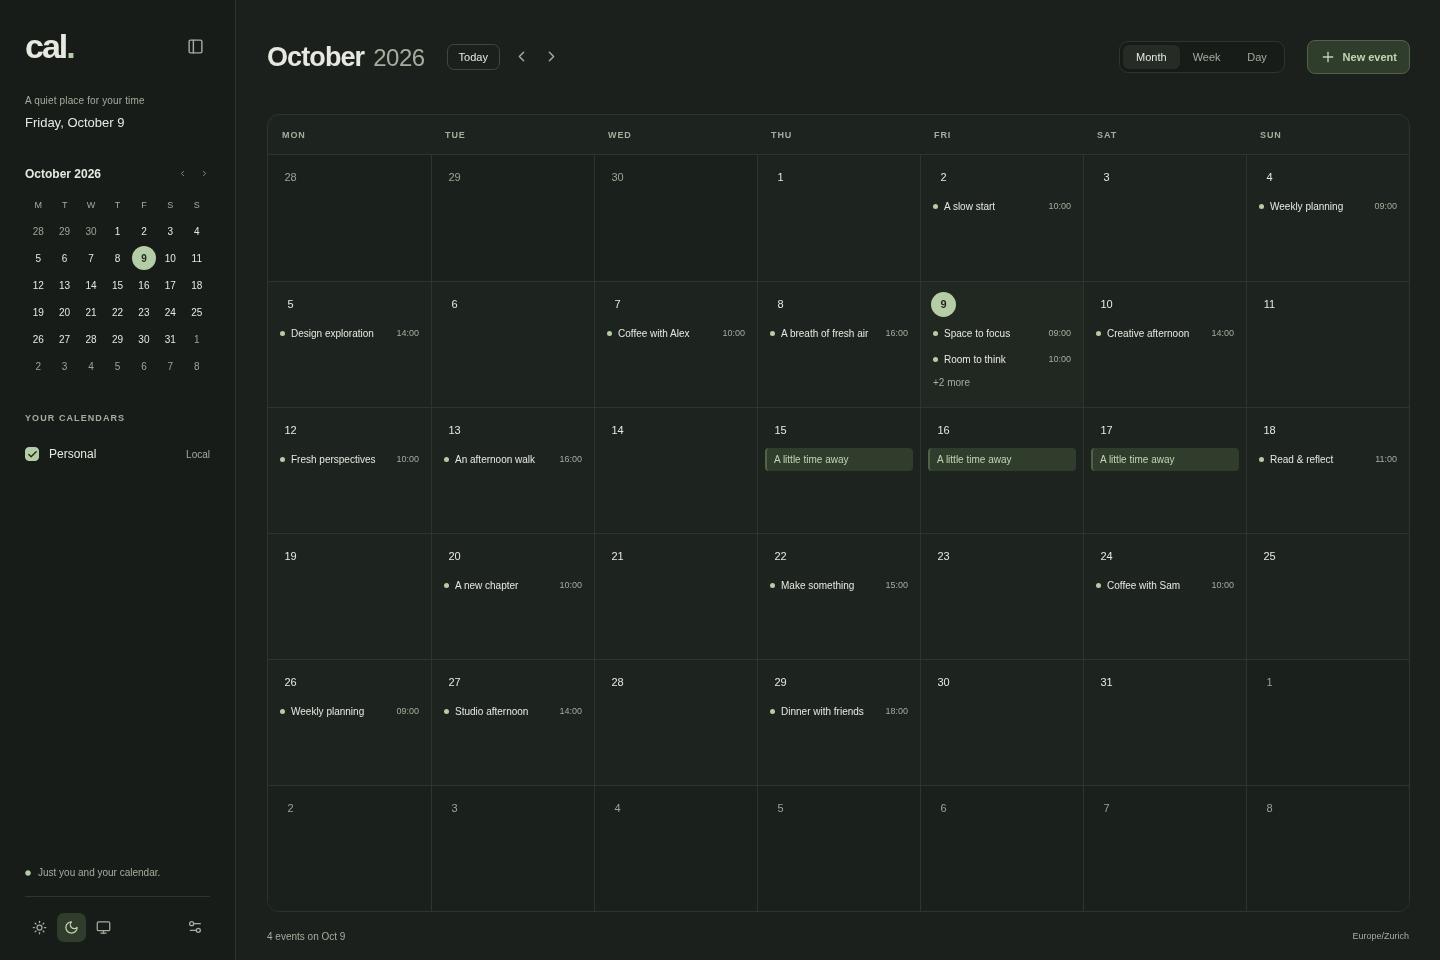
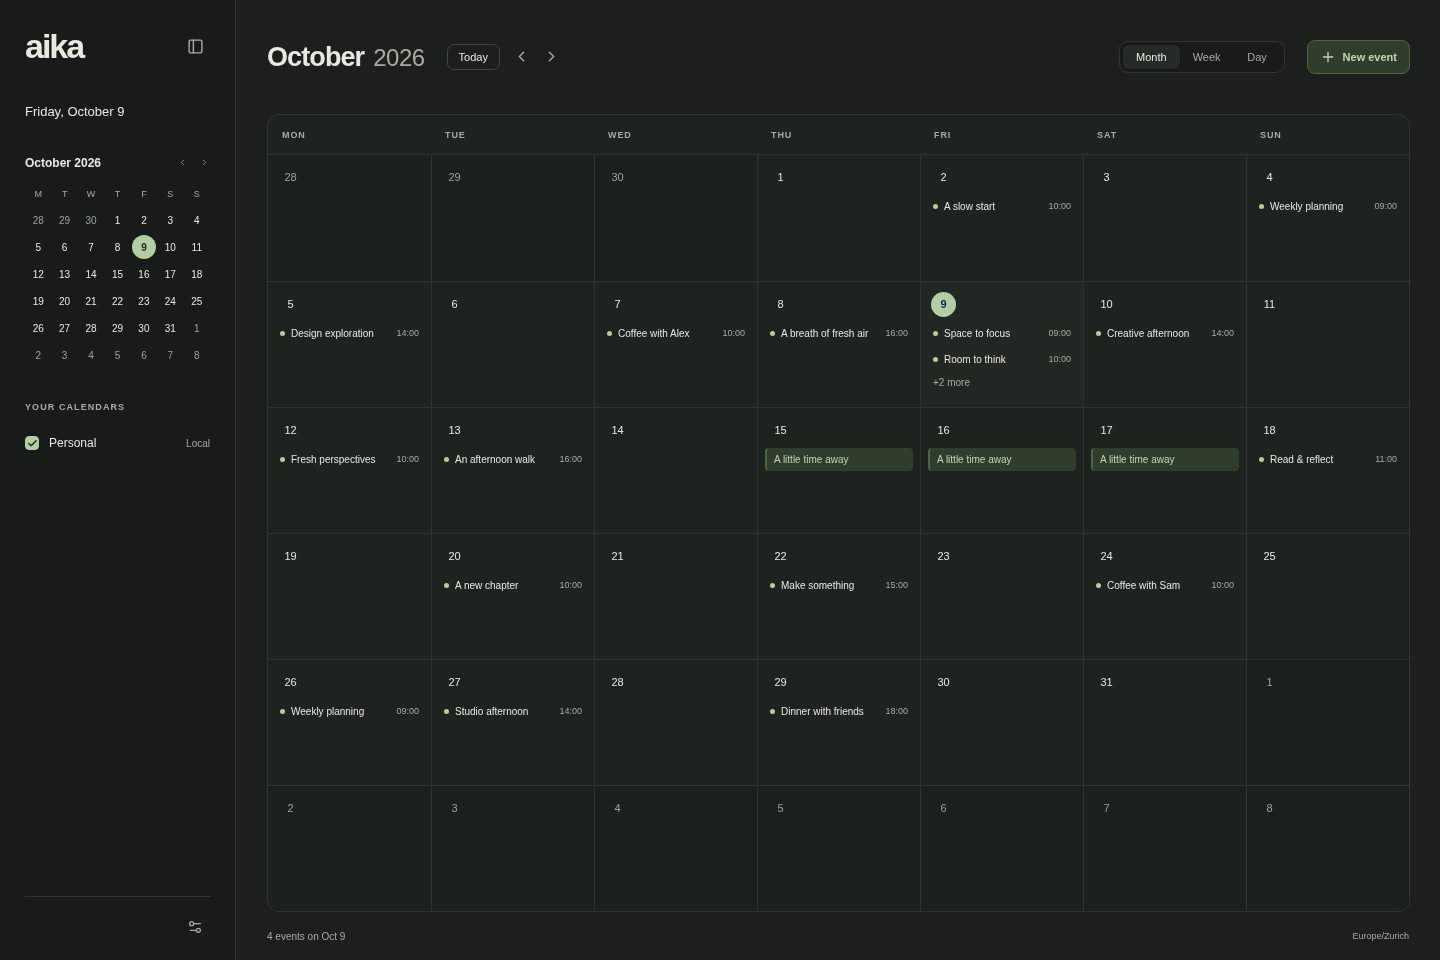
Finish phase-one design copy and refresh review artifacts

diff --git a/tests/prototype.spec.ts b/tests/prototype.spec.ts
@@ -43,11 +43,13 @@ test('creates, edits, deletes, and undoes events through the editor', async ({ p
   await page.getByRole('button', { name: 'New event' }).click();
   await page.getByRole('textbox', { name: 'Event title' }).fill('A considered afternoon');
   await page.getByRole('button', { name: 'Add location or notes' }).click();
-  await page.getByPlaceholder('Add a place').fill('At the studio');
-  await page.getByPlaceholder('Anything you’d like to remember').fill('Bring the sketchbook');
+  await page.getByRole('textbox', { name: 'Location', exact: true }).fill('At the studio');
+  await page.getByRole('textbox', { name: 'Notes', exact: true }).fill('Bring the sketchbook');
   await page.getByRole('button', { name: 'Create event', exact: true }).click();
   await page.getByRole('button', { name: /A considered afternoon,/ }).click();
-  await expect(page.getByPlaceholder('Add a place')).toHaveValue('At the studio');
+  await expect(page.getByRole('textbox', { name: 'Location', exact: true })).toHaveValue(
+    'At the studio',
+  );
   await page.getByRole('textbox', { name: 'Event title' }).fill('A lovely afternoon');
   await page.getByRole('button', { name: 'Save changes' }).click();
   await page.getByRole('button', { name: /A lovely afternoon,/ }).click();
@@ -89,7 +91,7 @@ test('captures the review scenes', async ({ page }, testInfo) => {
       });
     }
     await page.getByRole('button', { name: 'New event' }).click();
-    await page.getByRole('textbox', { name: 'Event title' }).fill('A little time for yourself');
+    await page.getByRole('textbox', { name: 'Event title' }).fill('Project planning');
     await page.screenshot({
       path: testInfo.outputPath(`editor-${theme}.png`),
       animations: 'disabled',

diff --git a/src/App.tsx b/src/App.tsx
@@ -560,7 +560,7 @@ function EventEditor({
   return (
     <form className="editor" onSubmit={submit}>
       <div className="editor-heading">
-        <span className="eyebrow">{existing ? 'Your event' : 'A little time for'}</span>
+        <span className="eyebrow">{existing ? 'Edit event' : 'New event'}</span>
         <IconButton label="Close event editor" onClick={onClose}>
           <X size={16} />
         </IconButton>
@@ -568,7 +568,7 @@ function EventEditor({
       <input
         className="event-title-input"
         aria-label="Event title"
-        placeholder="What’s on your mind?"
+        placeholder="Event title"
         value={title}
         onChange={(e) => setTitle(e.target.value)}
         maxLength={300}
@@ -660,7 +660,7 @@ function EventEditor({
               Location
             </span>
             <input
-              placeholder="Add a place"
+              placeholder="Location"
               value={location}
               onChange={(e) => setLocation(e.target.value)}
             />
@@ -668,7 +668,7 @@ function EventEditor({
           <label>
             <span>Notes</span>
             <textarea
-              placeholder="Anything you’d like to remember"
+              placeholder="Notes"
               value={notes}
               onChange={(e) => setNotes(e.target.value)}
               rows={3}

diff --git a/docs/handoffs/phase-1.md b/docs/handoffs/phase-1.md
@@ -2,8 +2,13 @@
 
 Status: **ready for user review; design acceptance pending.** Phase 2 must wait for this gate, as agreed in the planning conversation.
 
+## Source and current review
+
+Base revision: `22f14fa` in the inherited parent repository. Phase-1 refinements are uncommitted. Latest decisions from the referenced planning task and `.ai/plans/aika.md` supersede the earlier Cal naming: visible branding is **aika**, appearance controls live only in Settings, and editor copy is functional. Linux CI uses ubuntu-latest; Windows/macOS matrix entries remain commented out.
+
 ## Delivered
 
+- Functional editor labels/placeholders, refreshed aika review images, and public plan/architecture documentation aligned with the latest decisions.
 - Custom month/week/day layouts with warm-neutral/sage light and dark themes, plus automatic system appearance.
 - Collapsible sidebar, mini calendar, one local-calendar visibility toggle, restrained toolbar, and Settings dialog.
 - Anchored editor with title, timed/all-day ranges, optional location/notes, save/cancel, and prototype delete/undo.
@@ -14,11 +19,10 @@ Status: **ready for user review; design acceptance pending.** Phase 2 must wait 
 ## Run and review
 
 ```sh
-pnpm dev
 pnpm desktop
 ```
 
-Browser preview: http://127.0.0.1:1420. Fixed review date: `/?date=2026-10-09`. Use `theme=light`, `theme=dark`, `scenario=empty`, or `scenario=dense` for repeatable scenes. The native shell runs the same UI in the OS webview.
+For a browser review aid, run `pnpm dev`: http://127.0.0.1:1420. Fixed review date: `/?date=2026-10-09`. Use `theme=light`, `theme=dark`, `scenario=empty`, or `scenario=dense` for repeatable scenes. The native shell runs the same UI in the OS webview.
 
 See [the screenshot gallery](../review/README.md). Review the balance of spacing and typography, palette, month/week/day readability, editor placement, crowded cells, overlapping events, and both themes. Approval may be given with specific refinements; record the accepted design before phase 2.
 
@@ -28,8 +32,13 @@ See [the screenshot gallery](../review/README.md). Review the balance of spacing
 pnpm build
 pnpm format:check
 pnpm test
+pnpm rust fmt --manifest-path src-tauri/Cargo.toml --check
+pnpm rust clippy --manifest-path src-tauri/Cargo.toml --all-targets --offline -- -D warnings
+pnpm desktop:build --debug --no-bundle
 CAL_CHROMIUM_PATH=/usr/bin/chromium pnpm test:ui
 ```
+
+Reverified October 9, 2026 on Linux. Browser checks required sandbox escalation because local port binding was denied (`listen EPERM`); the rerun passed. Native debug startup reported `rootChildren: 1` and `runtime: desktop`; the rebuilt aika window is open for review. The 13 current screenshots are preserved under `docs/review/`. Windows/macOS and hosted CI remain unverified.
 
 Results: **7 unit tests and 5 browser scenarios passed**, along with the production frontend build, formatting checks, Rust formatting, and Clippy with warnings denied. The unit suite covers locale normalization, six-week/leap-month boundaries, overlap lanes, touching events, overnight/exclusive all-day ranges, DST date spans, and undo snapshots. Browser scenarios cover POSIX-locale startup, three views, two themes and system changes, appearance persistence, sidebar controls, CRUD/notes/delete/undo, keyboard focus, dense overflow, reduced motion, and window sizing. Screenshots are renderer evidence; the separate native startup check confirms Linux mounting/IPC.
 

diff --git a/docs/plan.md b/docs/plan.md
@@ -1,12 +1,12 @@
-# Cal implementation plan
+# aika implementation plan
 
 ## Agreed product
 
-Personal desktop alpha for Windows 11 x64, macOS 14+ Intel/Apple Silicon, and Linux x64 (Ubuntu 24.04+ and Arch). Tauri 2 + React/TypeScript, Rust backend. Custom calendar views and a distinct warm-neutral/sage visual identity. Spacious, minimal, premium UI. Light, dark, and system appearance from v0.
+Personal desktop alpha for Windows 11 x64, macOS 14+ Intel/Apple Silicon, and Linux x64 (Ubuntu 24.04+ and Arch). Tauri 2 + React/TypeScript, Rust backend. Custom calendar views and a distinct warm-neutral/sage visual identity. Spacious, minimal, premium UI. Light, dark, and system appearance from v0, controlled only from Settings. The sidebar footer contains only Settings. Use functional copy throughout.
 
 One local calendar; month/week/day; title, start/end, timed/all-day, optional location and plain-text notes. Anchored editor, collapsible sidebar, mini calendar, drag manipulation with keyboard alternatives, and undo. English UI with OS/webview regional formatting and week start. Follow the device zone: retain timed instants and all-day dates.
 
-Exclude recurrence, reminders, search, backup/restore, ICS exchange, multiple user-created calendars, connected accounts, application servers, analytics, auto-updates, and paid signing from v0. Private alpha installers use ad-hoc macOS signing. Working name Cal; identifier `dev.projectcal.desktop`.
+Exclude recurrence, reminders, search, backup/restore, ICS exchange, multiple user-created calendars, connected accounts, application servers, analytics, auto-updates, and paid signing from v0. Private alpha installers use ad-hoc macOS signing. App name aika; identifier `dev.projectcal.desktop`.
 
 ## Architecture
 
@@ -16,7 +16,7 @@ Credential service uses macOS Keychain, Windows Credential Store, and Linux Secr
 
 ## Phases and exit gates
 
-0. **Foundation:** scaffold, toolchain pinning, typed contracts, least-privilege shell, reproducible local build, four-target CI artifact workflow. Exit: launchable shell and target build evidence; report any unexecuted external checks explicitly.
+0. **Foundation:** scaffold, toolchain pinning, typed contracts, least-privilege shell, reproducible local build, Linux CI artifact workflow on ubuntu-latest (Windows/macOS entries remain commented out). Exit: launchable shell and target build evidence; report any unexecuted external checks explicitly.
 1. **Design:** interactive sample-data prototype, three views, editor, two themes, empty/dense/overlap/multi-day layouts, responsive desktop sizing, focus and reduced motion. Exit: user accepts visual direction and interaction flows. **User gate.**
 2. **Local domain:** default calendar, Rust validation, SQLite persistence/migrations, preferences, session undo, IPC. Handle DST gaps/ambiguity explicitly and keep failed editor input. Exit: CRUD/restart/undo/range/time-zone integration tests pass.
 3. **Calendar experience:** bind UI to IPC; complete navigation, editing, drag creation/moving/resizing, keyboard alternatives, overflow, all-day spans, now indicator. Exit: essential actions work with mouse and keyboard, persist, and recover from failures.

diff --git a/docs/architecture.md b/docs/architecture.md
@@ -34,6 +34,6 @@ The credential service stays behind the backend boundary. Use persistent OS stor
 
 Vitest covers layout and prototype repository behavior; Playwright covers renderer flows and captures review images. Browser checks are not evidence of native integration. Phase 4 adds WebdriverIO embedded Tauri automation on Windows/macOS/Linux, with plugins enabled only in test builds, plus real-platform checks.
 
-CI is ready for a repository rooted at this project. This workspace currently inherits a parent Git repository; no external repository is created or connected automatically. Cross-platform CI runs cannot be claimed until such a repository runs the workflow. Windows/macOS launch checks remain external verification tasks.
+The active CI desktop target is Linux on ubuntu-latest; Windows/macOS entries remain commented out per the latest user decision. CI is ready for a repository rooted at this project. This workspace currently inherits a parent Git repository; no external repository is created or connected automatically. Cross-platform CI runs cannot be claimed until such a repository runs the workflow. Windows/macOS launch checks remain external verification tasks.
 
 Private distribution uses Windows installers, per-architecture macOS DMGs with ad-hoc signing, and Linux AppImage/deb. There is no public signing, notarization, updater, analytics, or server in v0.

diff --git a/README.md b/README.md
@@ -1,6 +1,6 @@
 # aika
 
-A desktop calendar with room to breathe. Tauri 2, React, TypeScript, and Rust.
+A desktop calendar. Tauri 2, React, TypeScript, and Rust.
 
 **Current milestone: phase 1 design prototype.** Events are sample data, and edits live only in memory. Reloading resets them. Appearance is saved on this device. This is not yet the persistent local-calendar alpha.
 
@@ -10,14 +10,10 @@ Use Node 24 LTS and pnpm 12.10.1:
 
 ```sh
 pnpm install --frozen-lockfile
-pnpm dev
-```
-
-Open http://127.0.0.1:1420. For the desktop application, install Rust 1.99.0 and the [Tauri prerequisites](https://v2.tauri.app/start/prerequisites/), then run:
-
-```sh
 pnpm desktop
 ```
+
+Desktop development requires Rust 1.99.0 and the [Tauri prerequisites](https://v2.tauri.app/start/prerequisites/). For a browser preview, run `pnpm dev` and open http://127.0.0.1:1420.
 
 The tooling wrapper also detects a workspace-local Rust installation in `.tools/`. It does not alter global shell configuration. This workspace already has that installation; on another machine use the normal Rust toolchain setup.
 

diff --git a/docs/review/README.md b/docs/review/README.md
@@ -1,6 +1,8 @@
 # Phase 1 design review
 
-Interactive preview: http://127.0.0.1:1420. The images use sample data and a fixed October 9, 2026 review date.
+Current images were refreshed on October 9, 2026 after the aika rename, Settings-only appearance controls, and functional editor copy pass. Run `pnpm desktop` to review the native app.
+
+Browser review aid: http://127.0.0.1:1420. The images use sample data and a fixed October 9, 2026 review date.
 
 | View                  | Light                            | Dark                           |
 | --------------------- | -------------------------------- | ------------------------------ |
